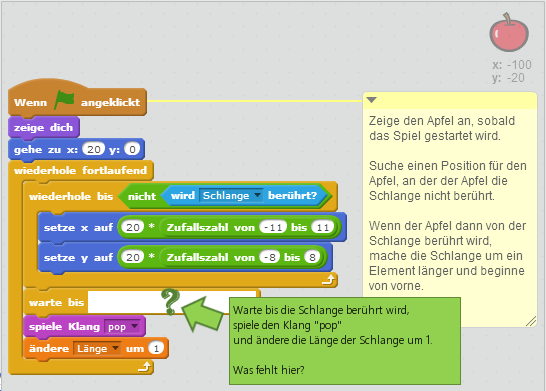
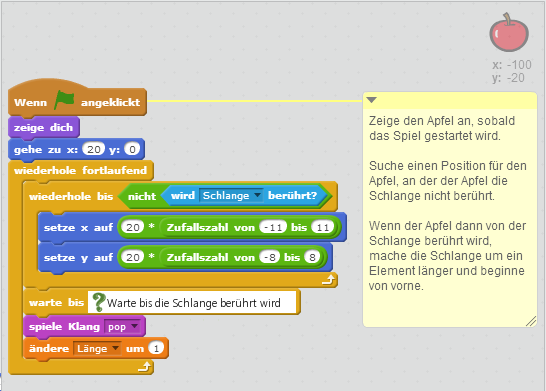
Snake game

Changed region(s): [[0.1557, 0.7366, 0.8718, 1.0]]

diff --git a/trainingsanleitungen/scratch/scratch-snake.md b/trainingsanleitungen/scratch/scratch-snake.md
@@ -55,6 +55,15 @@ Lösche dann den Klon.
 
 3. ![Ändere die Richtung der Schlange](scratch-snake/skript-schlange-3.png){: .right}
 Ändere mit den Pfeiltasten die Richtung der Schlange.
+
+4. ![Erhöhe die Geschwindigkeit](scratch-snake/skript-schlange-4.png){: .right}
+Mach die DauerProPosition alle 10 Sekunden um 0.02 kleiner. Wenn die Schlange weniger lang an einer Position verweilt wird sie schneller.
+
+5. ![Erkenne wann das Spiel vorbei ist](scratch-snake/skript-schlange-5.png){: .right}
+Das Spiel ist vorbei wenn die Schlange entweder den Rand berührt oder wenn die Zunge der Schlange (rot) ihren Körper (grün) berührt. Sende dann die Nachricht "Verloren".
+
+6. ![Stoppe alle Skripte](scratch-snake/skript-schlange-6.png){: .right}
+Wenn die Nachricht "Verloren" versandt wurde, stoppe alle Skripte und setzte die Schlange wieder auf die Anfangsposition.
   
 ## Skripte für den Apfel
 
